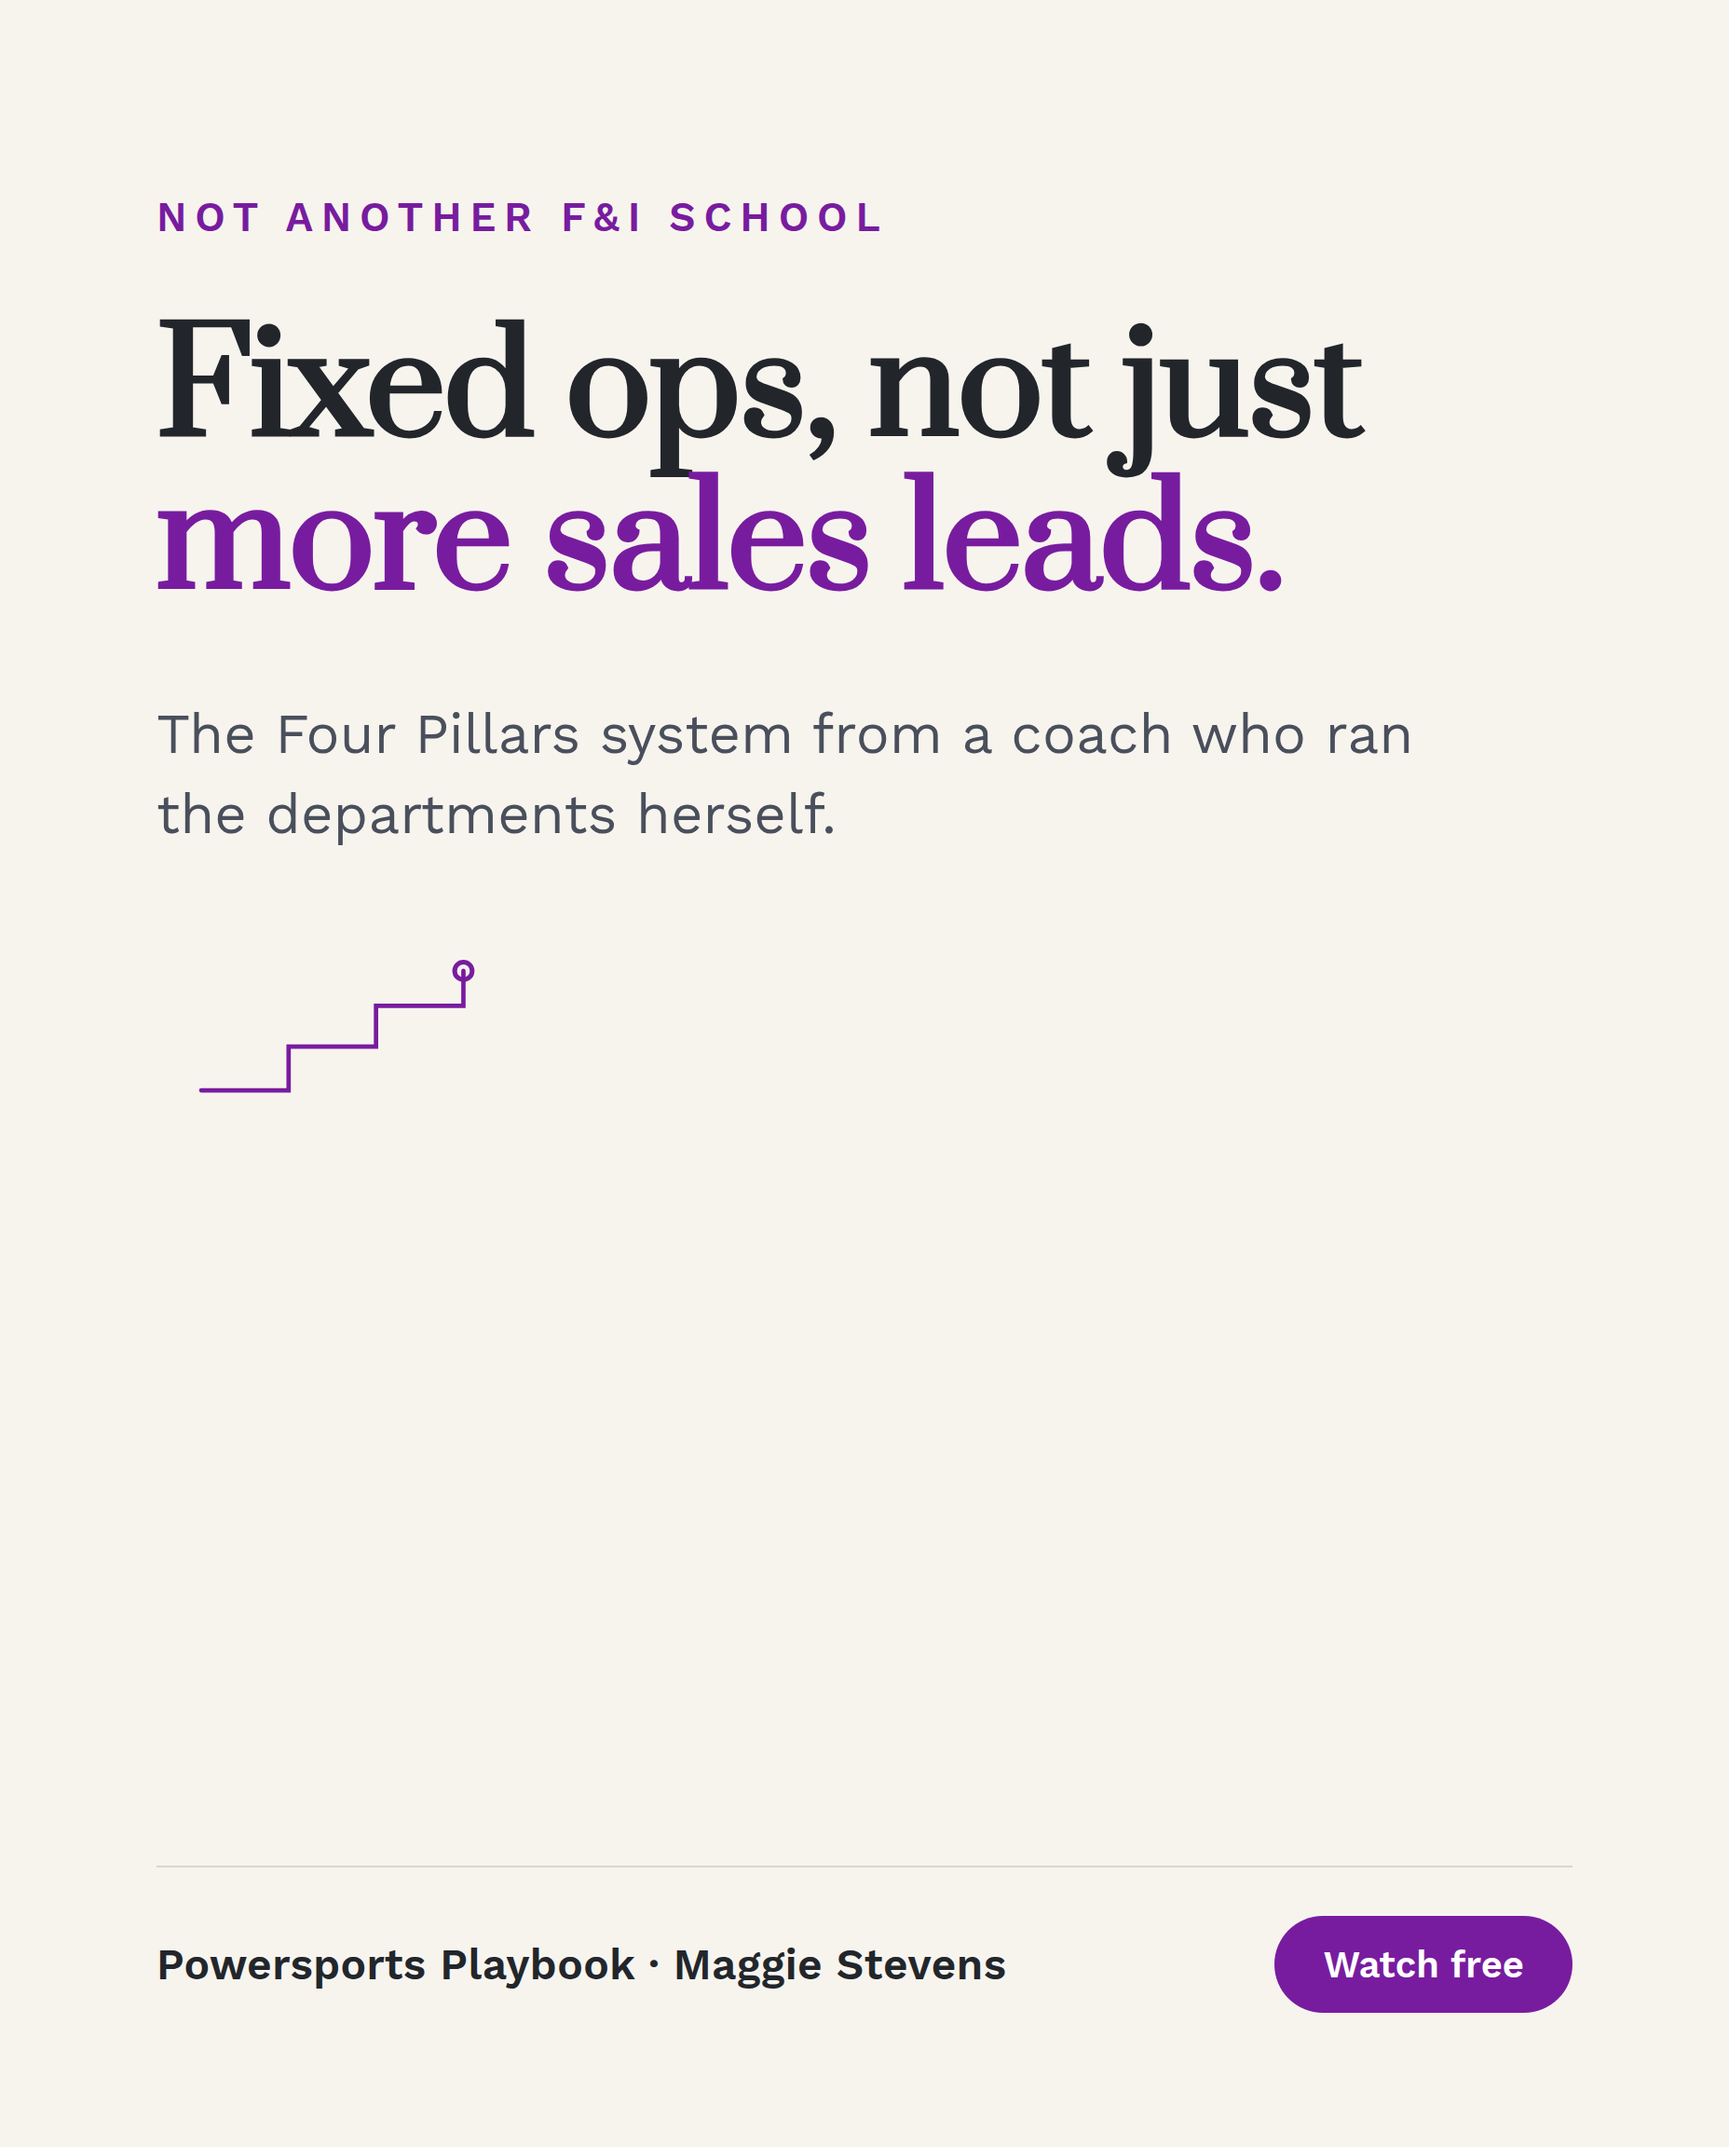
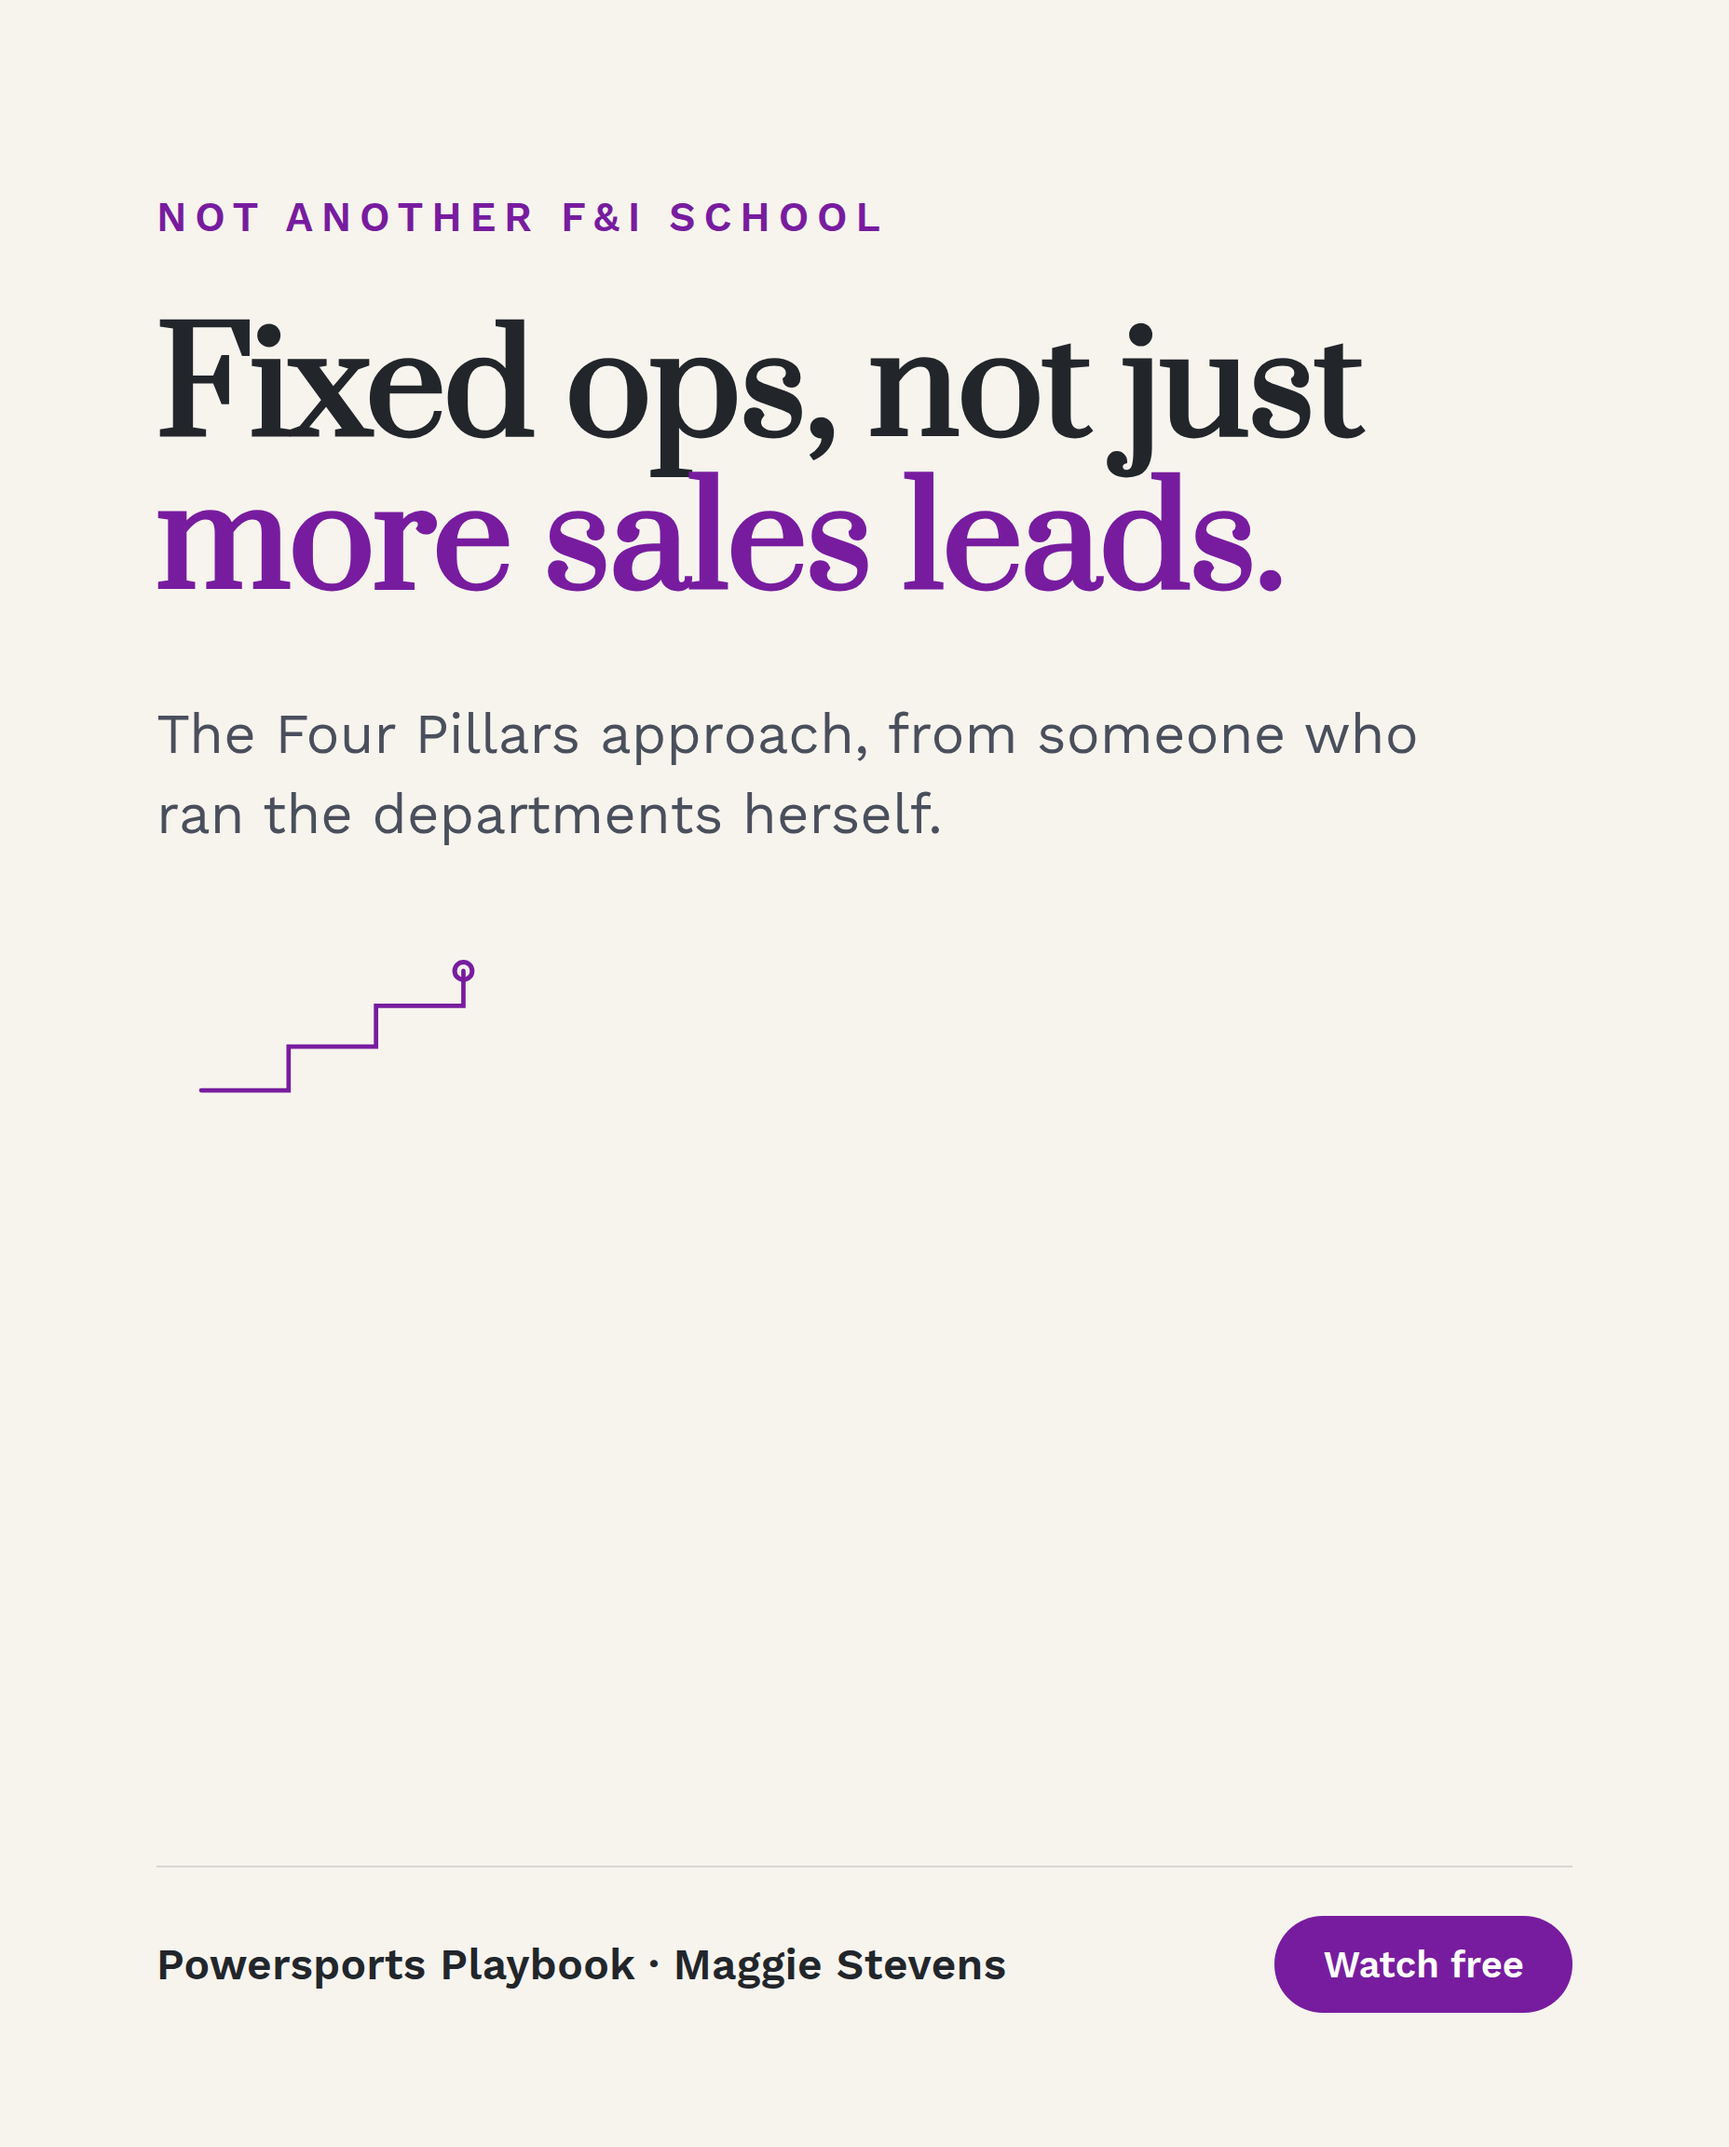
showcase: maggie-stevens-powersports

Changed region(s): [[0.0938, 0.3125, 0.5312, 0.4062], [0.5312, 0.3125, 0.8125, 0.375]]

diff --git a/maggie-stevens-powersports/index.html b/maggie-stevens-powersports/index.html
@@ -73,8 +73,8 @@
     <strong>For Maggie Stevens</strong> &nbsp;&middot;&nbsp; from Dustin at 780 Marketing &nbsp;&middot;&nbsp; August 2026
   </div>
 
-  <h1>The Money Leak Masterclass</h1>
-  <p class="framing">Here is what I mentioned in my email: the masterclass, the numbers, and the auction data that did not fit in the message. You already built the hard part: the Four Pillars framework, the Money Leak Audit and Accelerator, and the $199 Fixed Ops Strategy Call that feeds it. What you don't have is a second way for dealership owners who have never heard of you to find you and start the Money Leak process. This live masterclass runs alongside your strategy call, its own paid path into your coaching.</p>
+  <h1>The Profit That Was Already In The Building</h1>
+  <p class="framing">Here is what I mentioned in my email: the masterclass, the numbers, and the auction data that did not fit in the message. You already built the hard part: the Four Pillars approach you teach, the Money Leak Audit and Accelerator, and the $199 Fixed Ops Strategy Call that feeds it. What you don't have is a second way for dealership owners who have never heard of you to find you and start the Money Leak process. This live masterclass runs alongside your strategy call, its own paid path into the work.</p>
 
   <div class="section">
     <div class="section-label">The masterclass, already built</div>
@@ -107,11 +107,10 @@
         <tr><td>Show rate</td><td>30%</td><td>40%</td></tr>
         <tr><td>Masterclass viewers</td><td>18</td><td>40</td></tr>
         <tr><td>Book the $199 Strategy Call</td><td>10%</td><td>20%</td></tr>
-        <tr><td>Strategy calls booked / month</td><td>2</td><td>8</td></tr>
-        <tr class="hl"><td>New revenue added each month (calls only)</td><td>~$398 / mo</td><td>~$1,592 / mo</td></tr>
+        <tr class="hl"><td>Strategy calls booked / month</td><td>2</td><td>5 (your monthly cap)</td></tr>
       </tbody>
     </table>
-    <p class="fn">The revenue row uses only your published $199 Strategy Call price. I don't know what the Money Leak Accelerator costs, so I've left it out of the math rather than guess, real revenue would be higher once a share of those calls convert into it. Your call process stays exactly as it is.</p>
+    <p class="fn">You cap the Strategy Call at 5 a month, so the moderate scenario already fills that cap from paid traffic alone, on top of however it's filling today. I don't know what the Money Leak Accelerator costs, so I've left a dollar figure off this table rather than guess, real revenue would depend on how many of those calls convert into it. Your call process stays exactly as it is.</p>
   </div>
 
   <div class="section">
@@ -125,7 +124,7 @@
       <tbody>
         <tr><td>F&amp;I training (PowerSport Solution)</td><td>Product/training sold to dealers</td><td class="not-running">0 found in the check</td></tr>
         <tr><td>20-Group operators (Garage Composites, NCM Associates)</td><td>Peer-group membership for dealers</td><td class="not-running">0 found in the check</td></tr>
-        <tr class="you"><td>Powersports Playbook / Maggie Stevens</td><td>Fixed ops coaching for dealership owners</td><td class="not-running">Not running, 0</td></tr>
+        <tr class="you"><td>Powersports Playbook / Maggie Stevens</td><td>Fixed ops margin recovery for dealership owners</td><td class="not-running">Not running, 0</td></tr>
       </tbody>
     </table>
     <p class="fn">The categories most likely to already be buying this audience, F&amp;I trainers and 20-group operators, show zero active ads in the checks above, and your own domain checks the same way. That's a wide-open paid channel for whoever gets there first, and the one piece missing is traffic into the masterclass above.</p>

diff --git a/maggie-stevens-powersports/deck.html b/maggie-stevens-powersports/deck.html
@@ -98,11 +98,11 @@ const S = [
  {t:'dark',title:'Proven on her own department first, not just taught.'},
 
  {t:'section',idx:'Part Three',title:'Proof It Works'},
- {t:'normal',k:'$230K to $1M+, 38% margins, no discounting',title:'A struggling franchise parts department, turned around with a three-person team.',body:'No discounting. No reliance on online sales. Just pricing structure, staffing, and counter process, the same discipline now taught to other dealers’ parts departments instead of the industry’s default move of discounting to clear inventory.'},
- {t:'normal',k:'Why Maggie Stevens',title:'She built a dealership before she started coaching other owners on running one.',body:'Co-founded and scaled Cotee River Cycles from an 800-square-foot shop into her Florida market’s largest independent dealership, self-funded. Spark Award winner 2023 and 2024, Powersports Business cover feature, AIMExpo 2025 panelist, host of Beyond the Showroom.'},
+ {t:'normal',k:'$230K to $1M+, no discounting',title:'A struggling franchise parts department, turned around with a three-person team.',body:'No discounting. No reliance on online sales. Just pricing structure, staffing, and counter process, the same discipline now applied to other dealers’ parts departments instead of the industry’s default move of discounting to clear inventory. Dealers she works with regularly hit 38%+ margins in Fixed Ops.'},
+ {t:'normal',k:'Why Maggie Stevens',title:'She built a dealership before she started fixing other owners’ Fixed Ops.',body:'Co-founded and scaled Cotee River Cycles from an 800-square-foot shop into her Florida market’s largest independent dealership, self-funded. Spark Award winner 2023 and 2024, Powersports Business cover feature, AIMExpo 2025 panelist, host of Beyond the Showroom.'},
 
  {t:'section',idx:'Your Next Step',title:'Find Your Leak'},
- {t:'normal',k:'How it works',title:'A $199 call finds the top leak. The Audit and Accelerator turn it into a 30-day fix.',body:'The Fixed Ops Strategy Call identifies your biggest leak and a first blueprint. The Money Leak Audit and Accelerator go deeper: department trainings, a Day-30 owner and GM accountability call, and 60 days of support to make sure the fix holds.'},
+ {t:'normal',k:'How it works',title:'A $199 call finds the top leak. The Accelerator turns it into a lasting fix.',body:'The Fixed Ops Strategy Call identifies your biggest leak and a first blueprint. The Money Leak Accelerator goes deeper: department trainings, a Day-30 owner and GM accountability call, and 60 days of support to make sure the fix holds.'},
  {t:'cta',title:'Ready to find the profit that is already in your building?',chips:['Book the $199 Fixed Ops Strategy Call','Get a Money Leak Audit'],disc:'Educational content for motorcycle and powersports dealership owners. No income, growth, or business result is guaranteed. Results vary by dealership, market, and effort.'},
 ];
 
